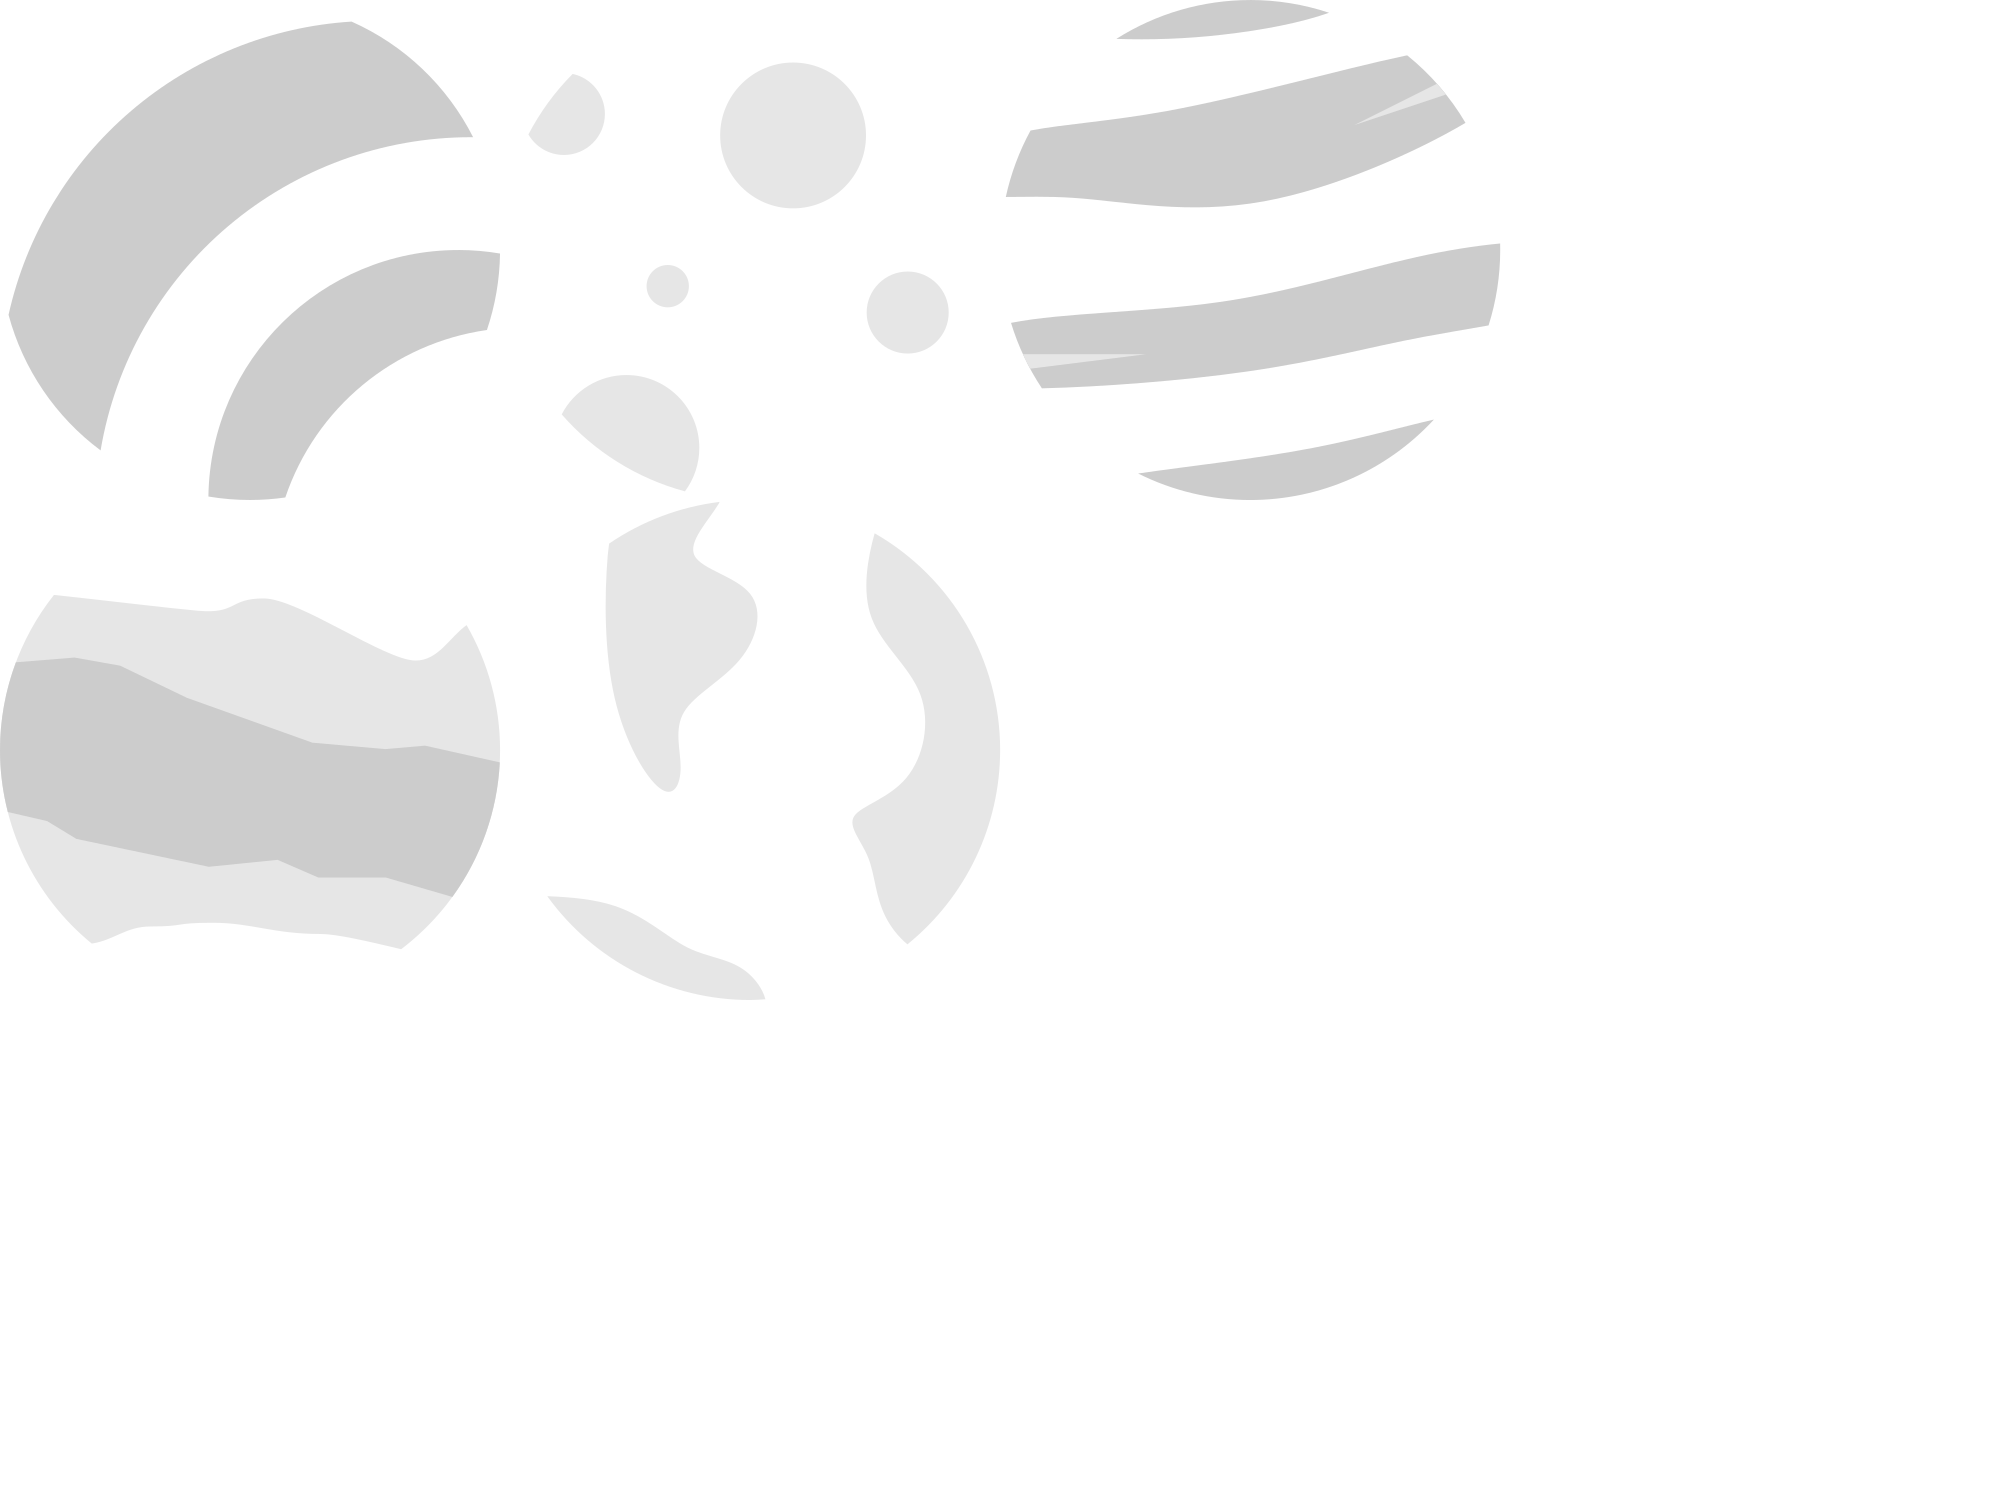
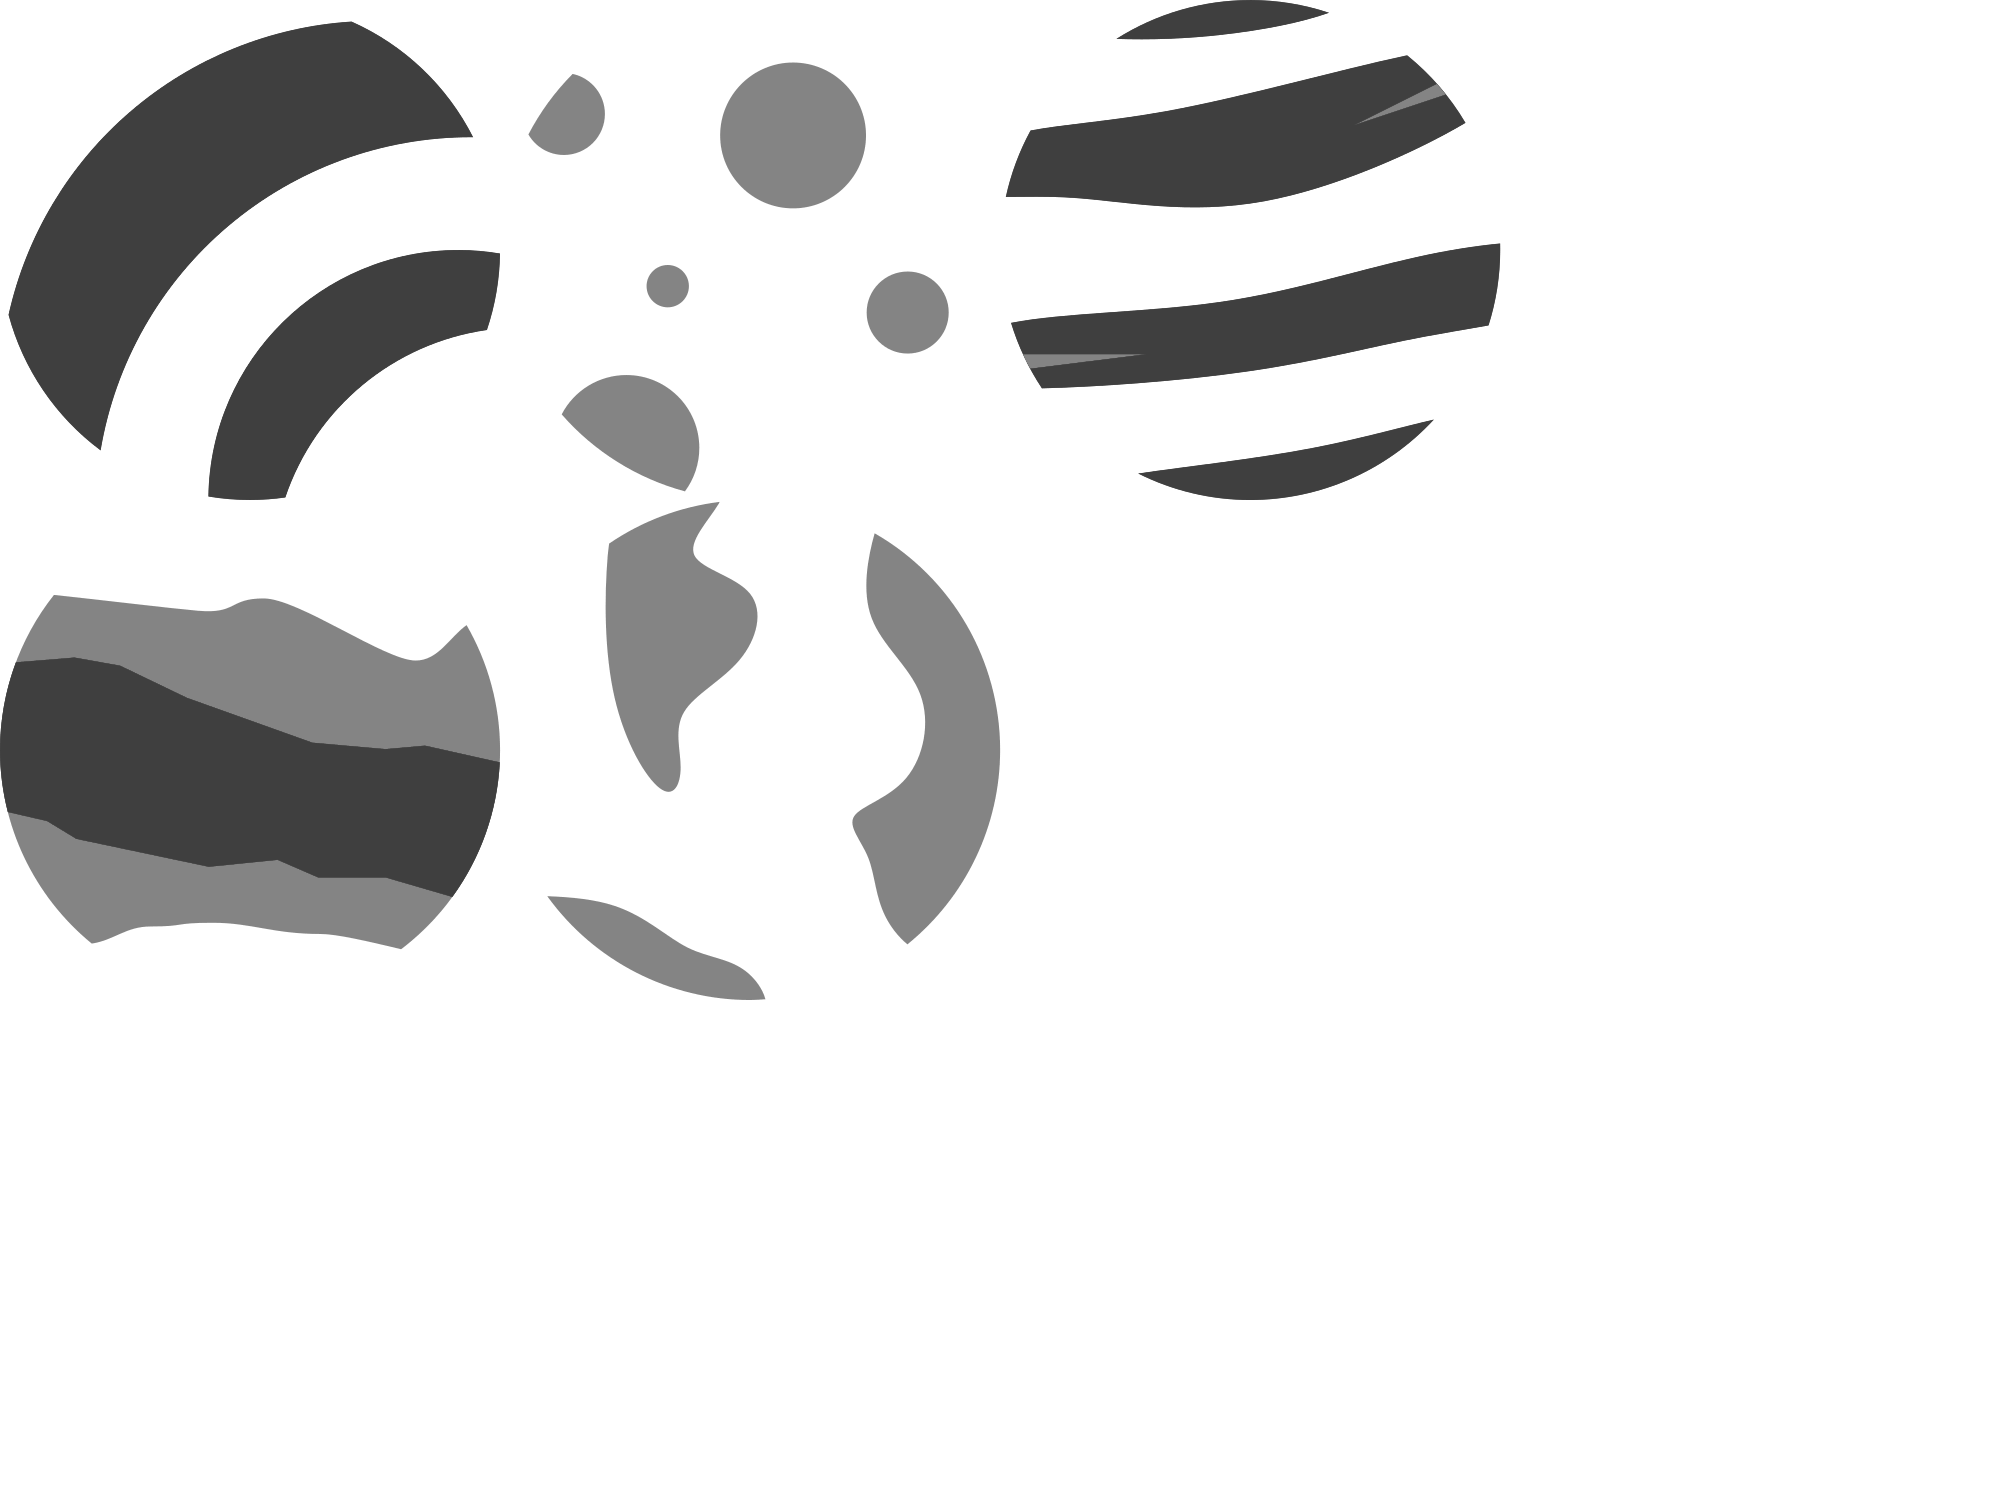
Colored planets and prediction lines

diff --git a/Assets/Scripts/Planetoid.cs b/Assets/Scripts/Planetoid.cs
@@ -64,7 +64,24 @@ public class Planetoid : MonoBehaviour
             return;
 
         if (lineInstance == null)
+        {
             lineInstance = Instantiate(line);
+            LineRenderer reninst = lineInstance.GetComponent<LineRenderer>();
+            Color planetcolor = GetComponent<SpriteRenderer>().color;
+            reninst.colorGradient = new Gradient()
+            {
+                colorKeys = new GradientColorKey[]
+                {
+                    new GradientColorKey(planetcolor, 0.0f),
+                    new GradientColorKey(planetcolor, 1.0f)
+                },
+                alphaKeys = new GradientAlphaKey[]
+                {
+                    new GradientAlphaKey(50.0f / 255.0f, 0.8f),
+                    new GradientAlphaKey(0.0f, 1.0f)
+                }
+            };
+        }
 
         LineRenderer ren = lineInstance.GetComponent<LineRenderer>();
         ren.positionCount = PlanetoidManager.predictions[ID].Length / 4;
